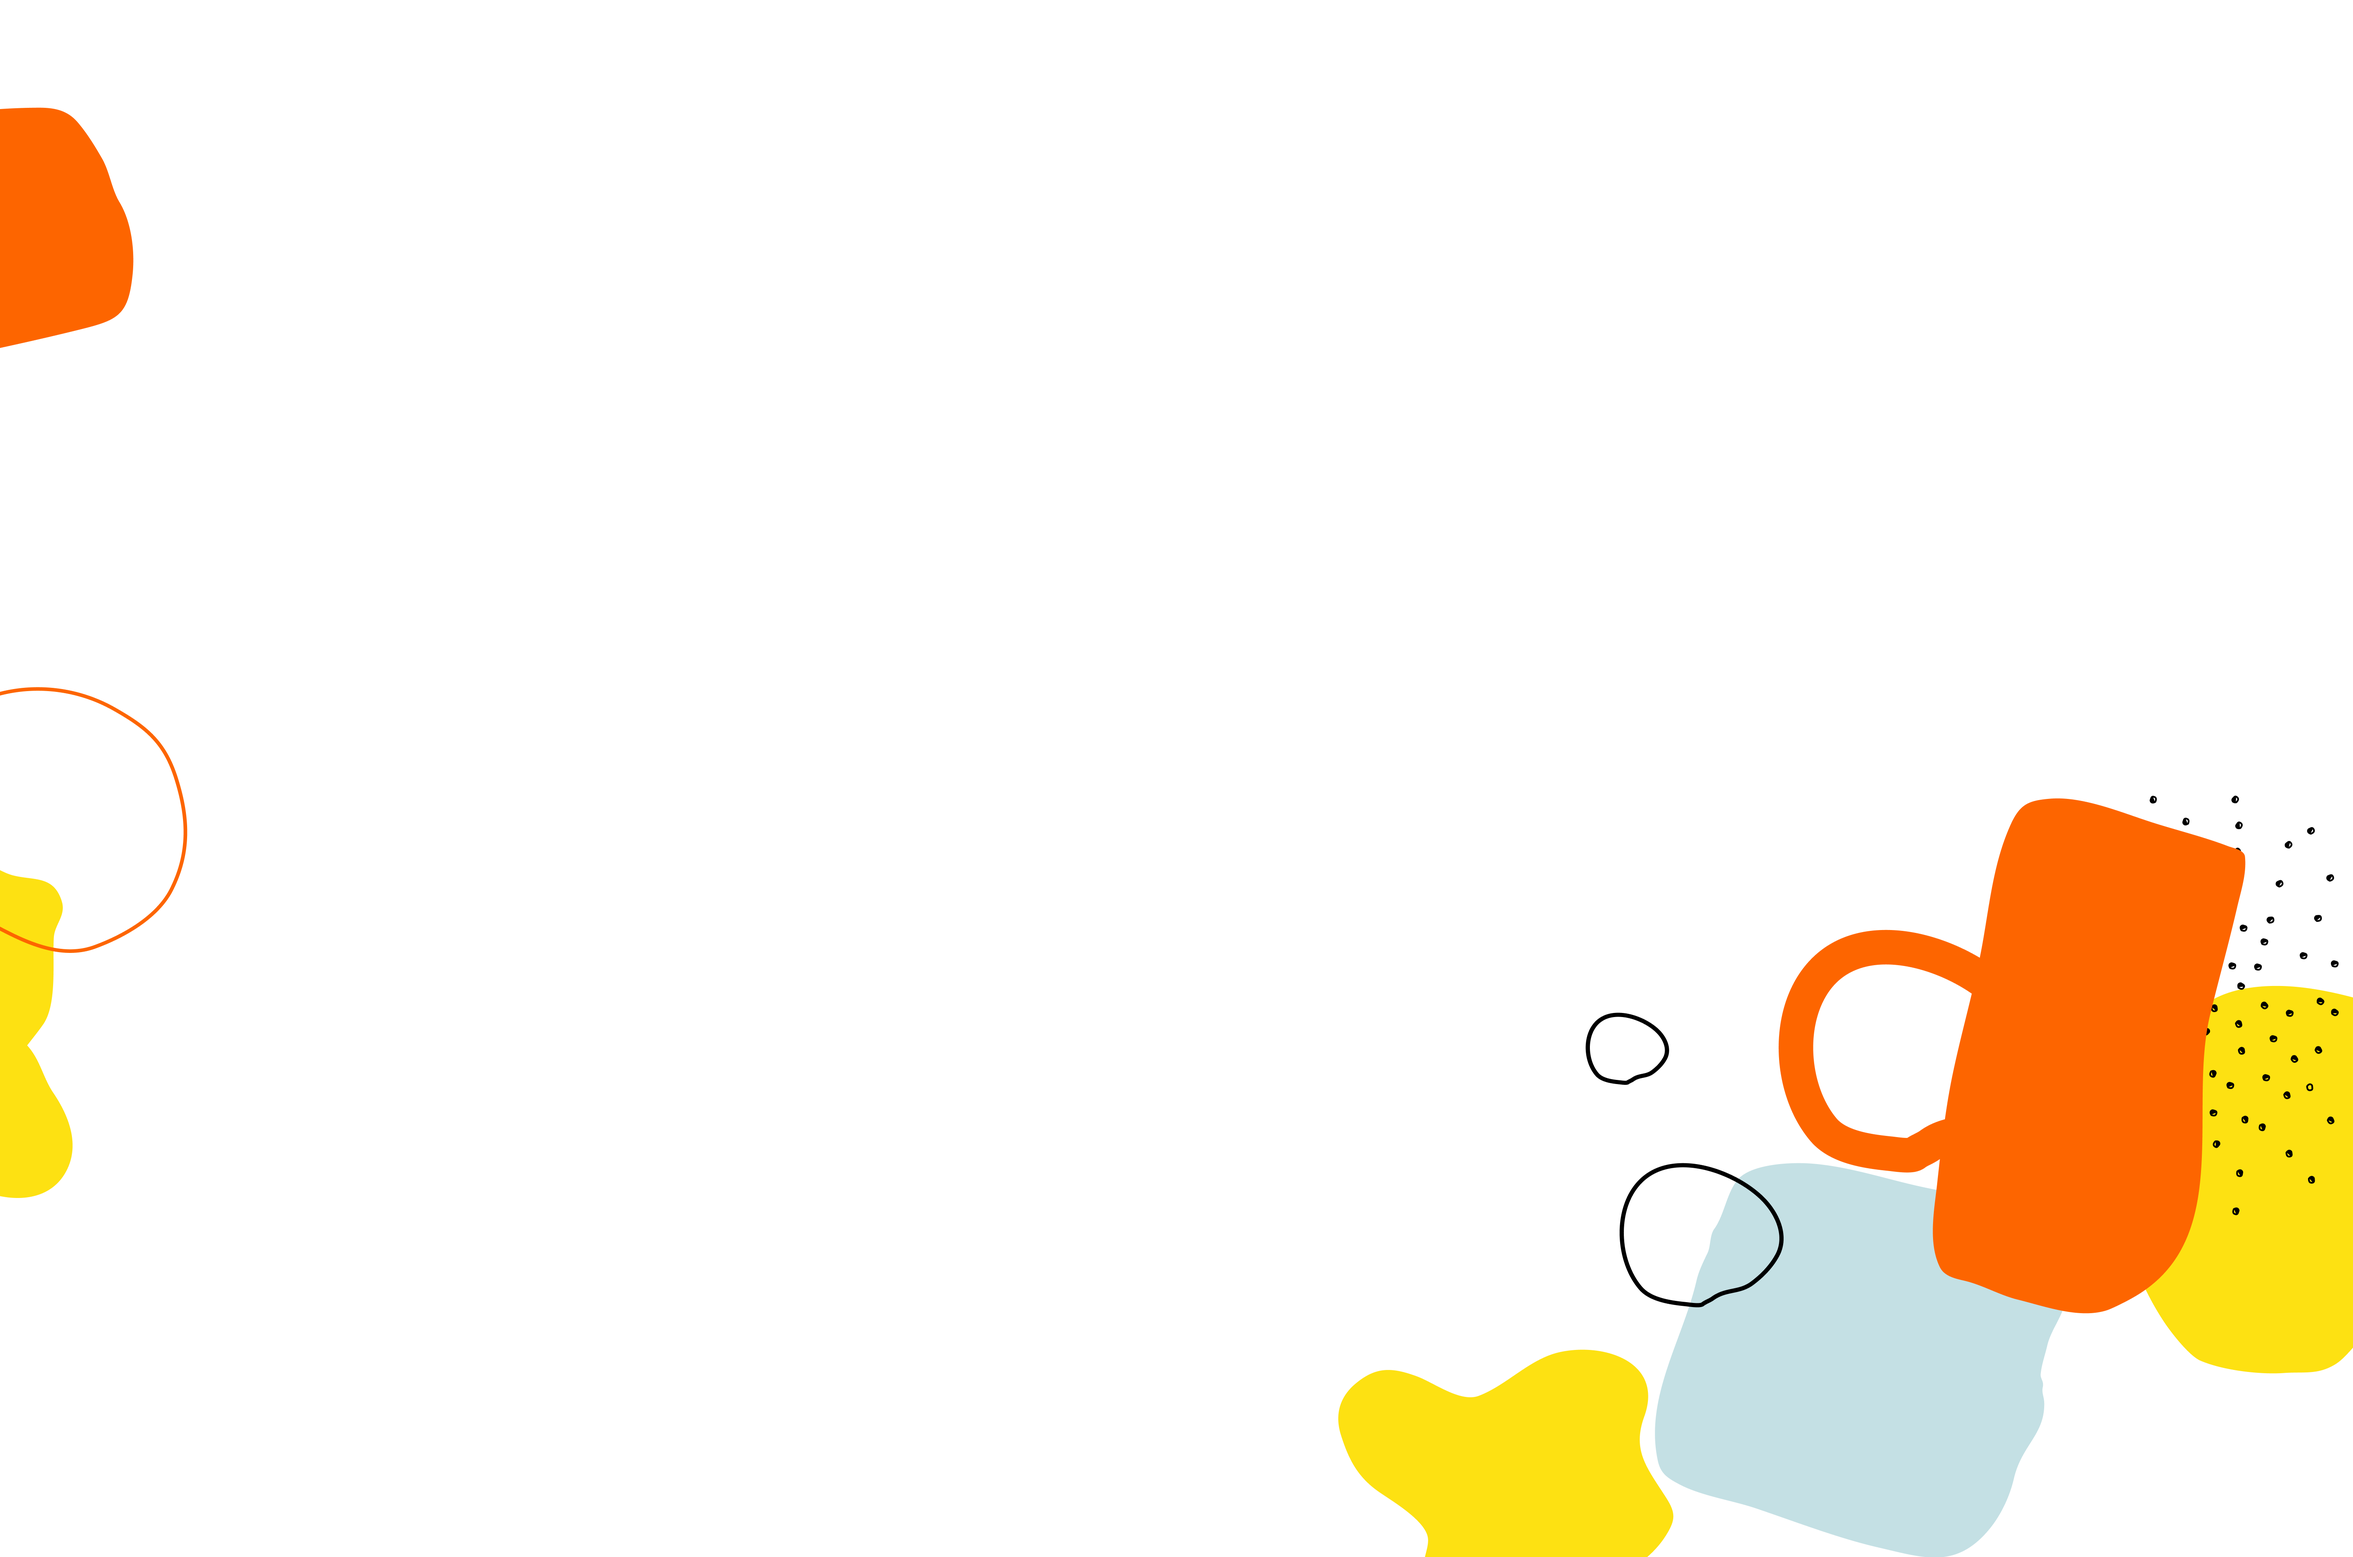
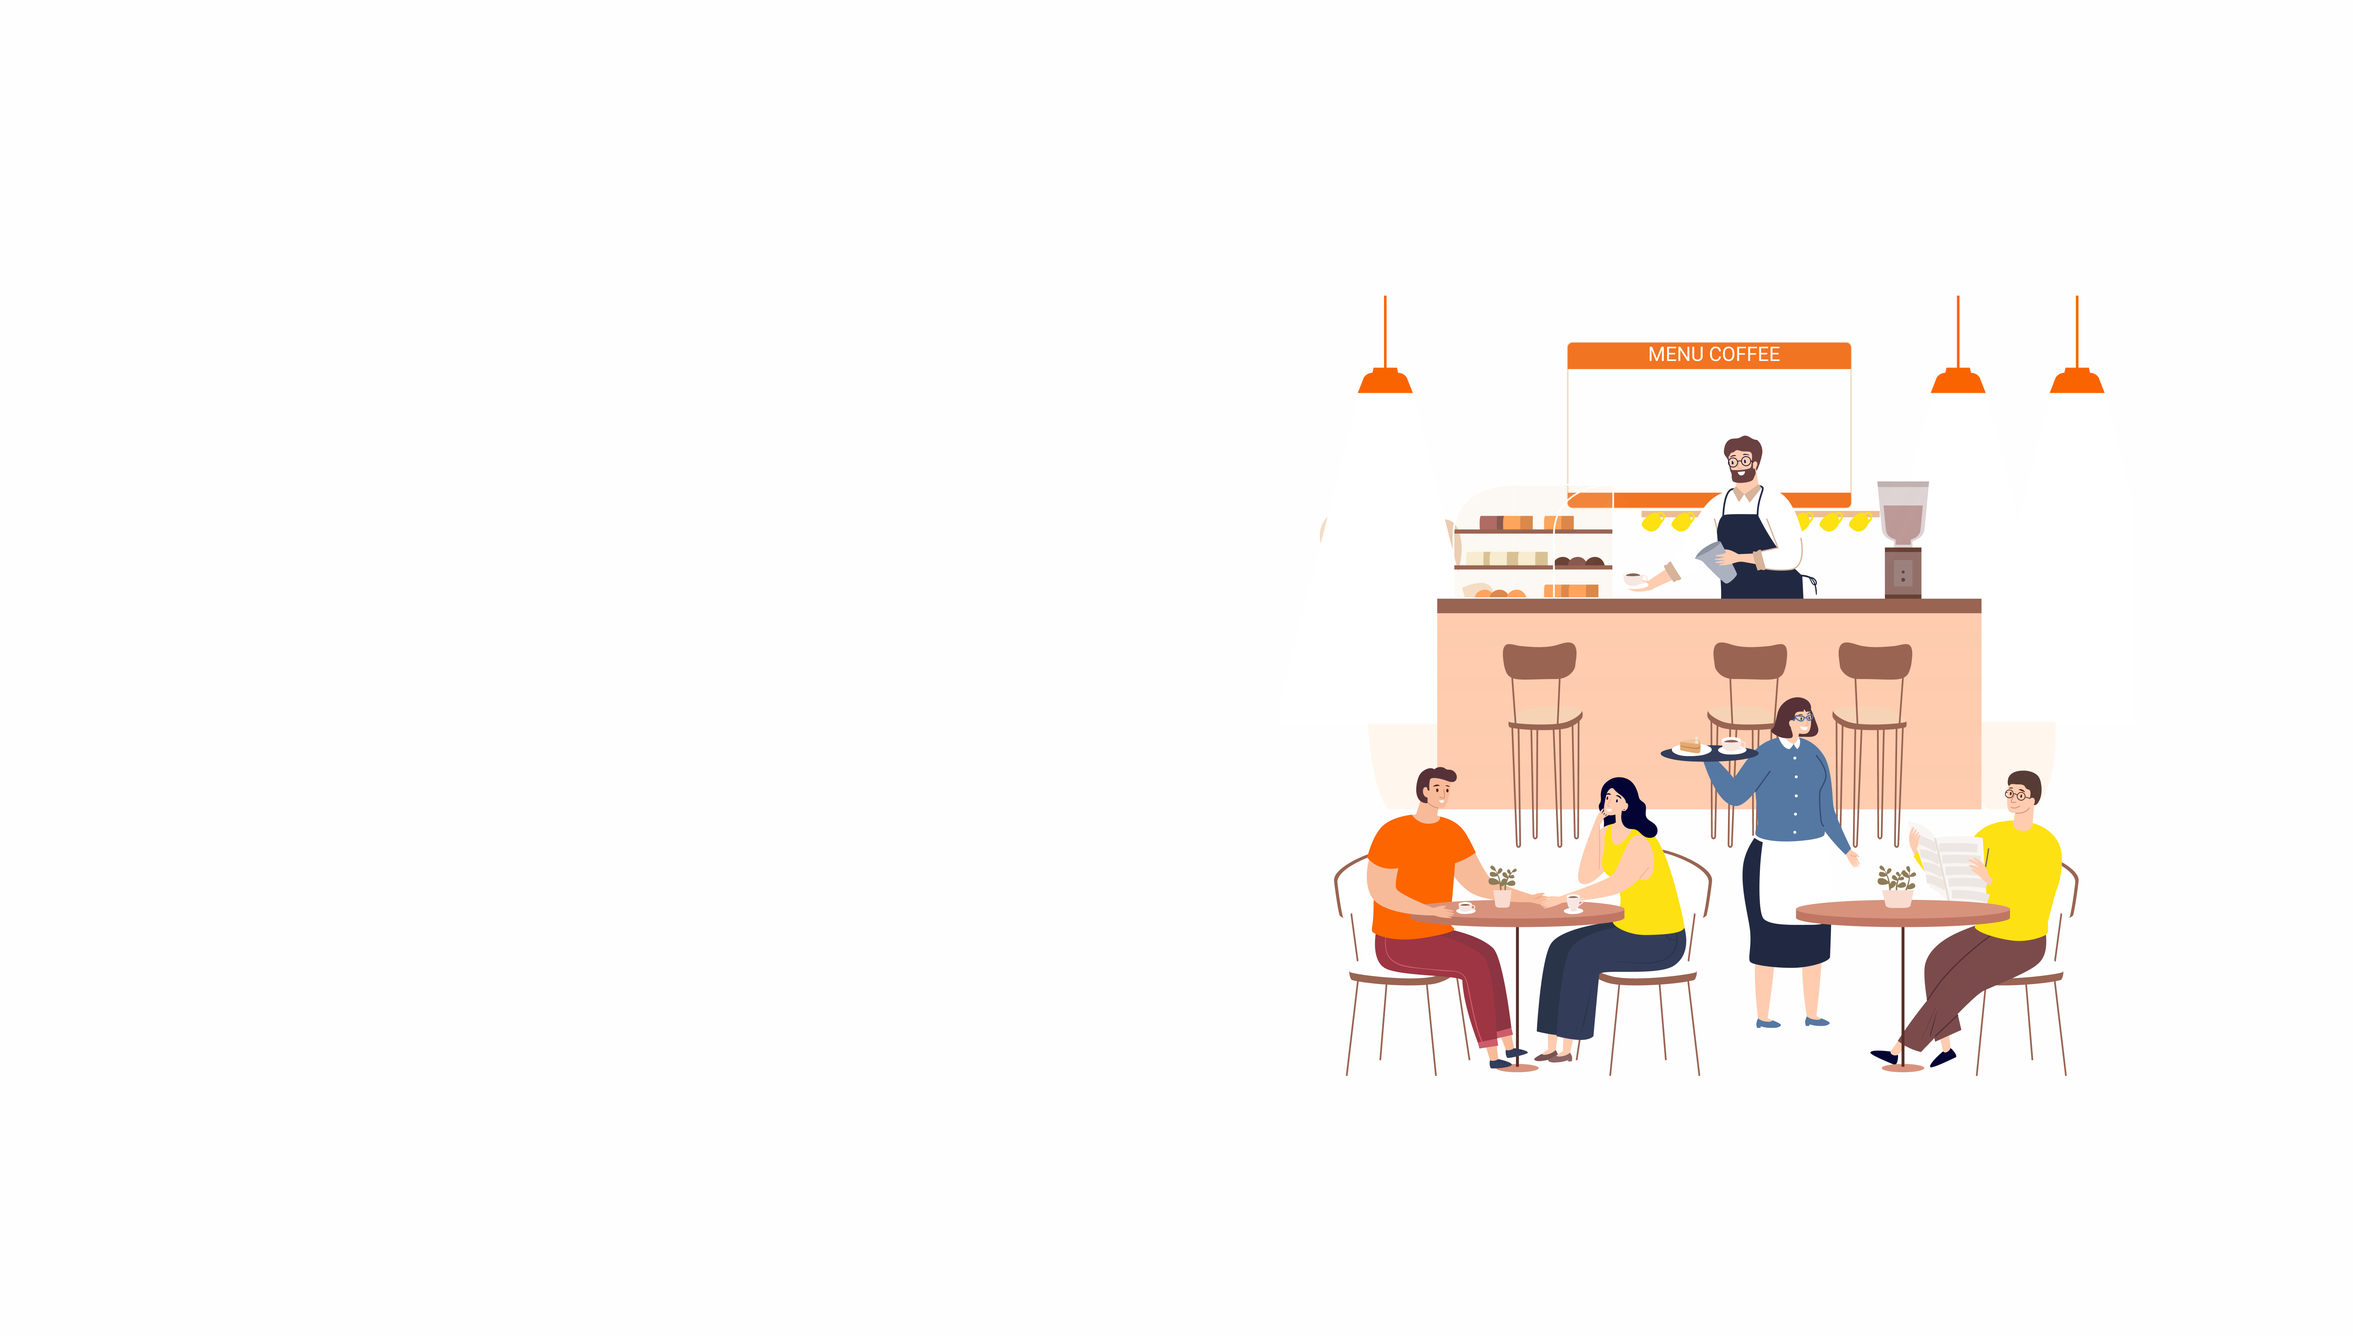
added an illustration

diff --git a/index.html b/index.html
@@ -37,8 +37,16 @@
         -o-background-size: cover;
         background-size: cover;
         
-      }
+        @media only screen and (max-width: 767px) {
+  body {
+    background-image: url(images/background-photo-mobile-devices.jpg);
+  }
+  }
+ 
 
+        
+      }
+ 
   
 
 
@@ -48,7 +56,7 @@
     </style>
   </head>
 
-  <body class="leading-relaxed tracking-wide flex flex-col">
+  <body> <div class="bg-auto sm:bg-cover md:bg-contain lg:bg-auto xl:bg-cover " style="background-image: url(img/bgimg.png)"></div>
     <!--Nav-->
     <nav id="header" class="w-full z-30 top-0 text-white py-1 lg:py-6">
       <div
@@ -76,14 +84,14 @@
     <br>
     
     <div class="container mx-auto h-screen">
-      <div class="text-center px-3 lg:px-0">
+      <div class="text-left px-3 lg:px-0">
         <h1
-          class="my-4 text-2xl md:text-3xl lg:text-5xl font-black leading-tight"
+          class="px-3 my-4 text-2xl md:text-3xl lg:text-5xl font-black leading-tight"
         >
           Coming Soon!
         </h1>
         <p
-          class="leading-normal text-gray-800 text-base md:text-xl lg:text-2xl mb-8"
+          class="px-3 leading-normal text-gray-800 text-base md:text-xl lg:text-2xl mb-8"
         >
           Find the menus of bars and restaurants around you.
         </p>
